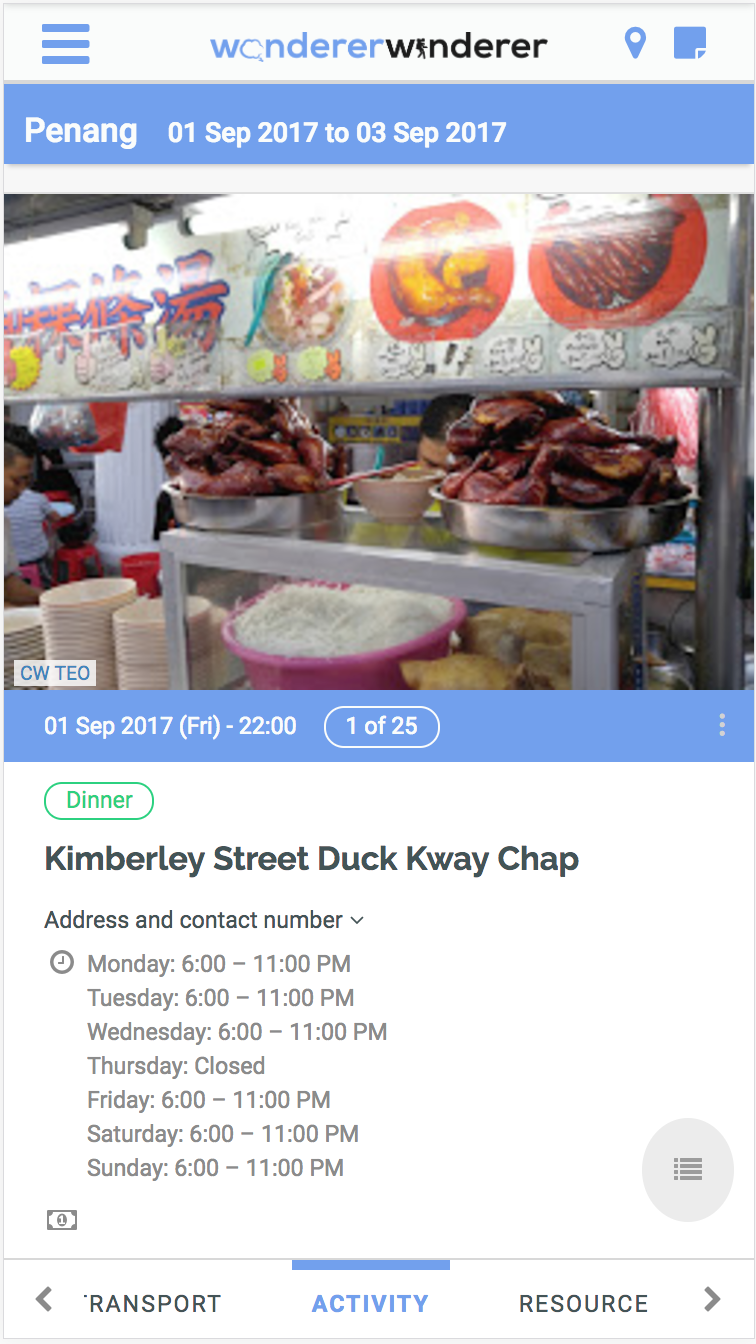
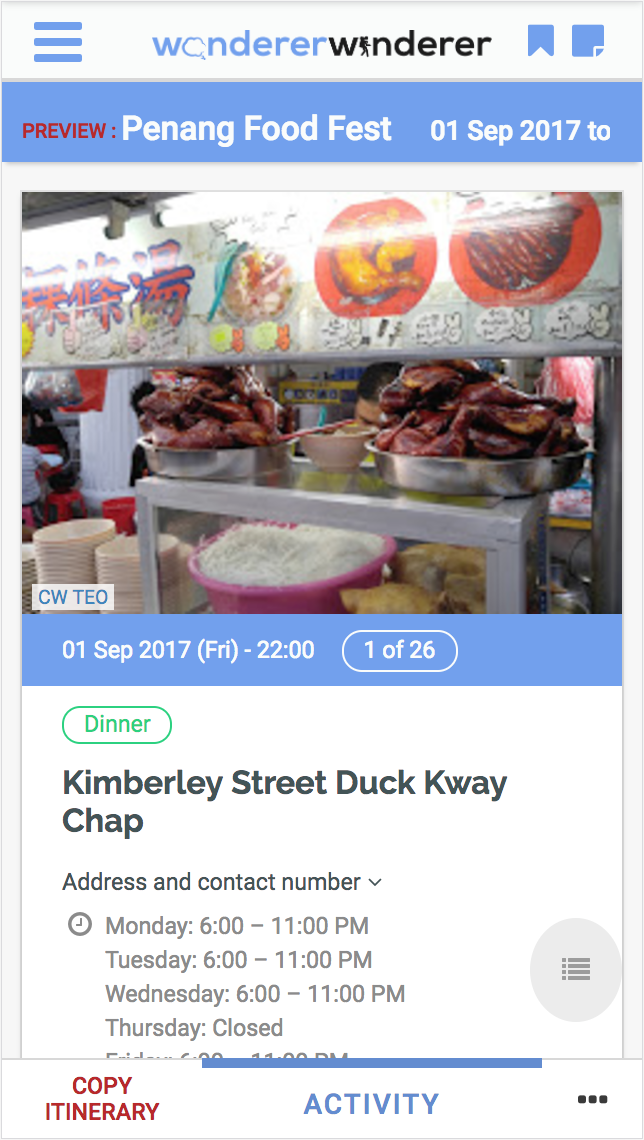
amend landing page to include description and with new layout

diff --git a/src/app/itinerary/itinerary-form/itinerary-form.component.ts b/src/app/itinerary/itinerary-form/itinerary-form.component.ts
@@ -1,4 +1,4 @@
-import { Component, OnInit, OnDestroy, Output, EventEmitter } from '@angular/core';
+import { Component, OnInit, OnDestroy, Output, EventEmitter, Renderer2 } from '@angular/core';
 import { FormGroup, FormControl, Validators, FormBuilder } from '@angular/forms';
 import { Router } from '@angular/router';
 import { Subscription } from 'rxjs/Rx';
@@ -31,14 +31,16 @@ export class ItineraryFormComponent implements OnInit, OnDestroy {
 
   constructor(
     private router: Router,
+    private renderer: Renderer2,
     private loadingService: LoadingService,
     private formBuilder: FormBuilder,
     private userService: UserService,
     private itineraryService: ItineraryService) {
       this.itineraryForm = this.formBuilder.group({
         'name': ['', Validators.required],
-        'date_from': ['', Validators.required],
-        'date_to': ['', Validators.required]
+        'date_from': '',
+        'date_to': '',
+        'num_days': '',
       });
     }
 
@@ -82,19 +84,25 @@ export class ItineraryFormComponent implements OnInit, OnDestroy {
     this.loadingService.setLoader(true, "Saving new itinerary...");
 
     let itinerary = this.itineraryForm.value;
-    let oneDay = 24*60*60*1000;
-
-    let startDate = new Date(itinerary['date_from']);
-    let endDate = new Date(itinerary['date_to']);
     let dateRange = [];
-
     dateRange.push('any day');
-    dateRange.push((new Date(itinerary['date_from'])).toISOString());
 
-    while(startDate < endDate){
-      let addDate = startDate.setDate(startDate.getDate() + 1);
-      let newDate = new Date(addDate);
-      dateRange.push(newDate.toISOString());
+    if(itinerary['date_from'] !== "") {
+      let startDate = new Date(itinerary['date_from']);
+      let endDate = new Date(itinerary['date_to']);
+
+      dateRange.push((new Date(itinerary['date_from'])).toISOString());
+
+      while(startDate < endDate){
+        let addDate = startDate.setDate(startDate.getDate() + 1);
+        let newDate = new Date(addDate);
+        dateRange.push(newDate.toISOString());
+      }
+    } else  {
+      for (let i = 0; i < itinerary['num_days']; i++) {
+        let day = i + 1;
+        dateRange.push("Day " + day);
+      }
     }
 
     itinerary["daily_note"] = [];
@@ -118,10 +126,19 @@ export class ItineraryFormComponent implements OnInit, OnDestroy {
         this.router.navigate(['/me/itinerary', data.itinerary._id]);
     });
 
-    this.hideItineraryForm.emit(false);
+    this.cancelForm();
   }
 
   cancelForm() {
     this.hideItineraryForm.emit(false);
+    this.preventScroll(false);
+  }
+
+  preventScroll(value)  {
+    if(value) {
+      this.renderer.addClass(document.body, 'prevent-scroll');
+    } else  {
+      this.renderer.removeClass(document.body, 'prevent-scroll');
+    }
   }
 }

diff --git a/src/app/landing-page/landing-page.component.html b/src/app/landing-page/landing-page.component.html
@@ -52,6 +52,7 @@
   <div id="slide-show">
 
     <div class="slideshow-header">
+      <h1 class="example-header eg-delay">DESCRIPTION</h1>
       <h1 class="example-header eg-delay">SUMMARY</h1>
       <h1 class="example-header eg-delay">MAP VIEW</h1>
       <h1 class="example-header eg-delay">ACCOMMODATION</h1>
@@ -61,6 +62,7 @@
     </div>
 
     <div class="slideshow-text">
+      <h2 class="text-example eg-delay">The story behind the trip</h2>
       <h2 class="text-example eg-delay">Chronological view of the itinerary</h2>
       <h2 class="text-example eg-delay">Know where you are going to</h2>
       <h2 class="text-example eg-delay">A dedicated view of all accommodation arrangements</h2>
@@ -71,6 +73,7 @@
 
     <div class="slideshow-desktop">
       <div class="slider-wrapper">
+        <img class="img-example eg-delay" src="assets/example-description.png" alt="">
         <img class="img-example eg-delay" src="assets/example-summary.png" alt="">
         <img class="img-example eg-delay" src="assets/example-map.png" alt="">
         <img class="img-example eg-delay" src="assets/example-accommodation.png" alt="">
@@ -82,6 +85,7 @@
 
     <div class="slideshow-mobile">
       <div class="slider-wrapper">
+        <img class="img-example img-example-mobile eg-delay" src="assets/example-description-mobile.png" alt="">
         <img class="img-example img-example-mobile eg-delay" src="assets/example-summary-mobile.png" alt="">
         <img class="img-example img-example-mobile eg-delay" src="assets/example-map-mobile.png" alt="">
         <img class="img-example img-example-mobile eg-delay" src="assets/example-accommodation-mobile.png" alt="">
@@ -124,7 +128,7 @@
 
       <div class="explanation">
         <h3>SAVE TIME & EFFORT</h3>
-        <h4>Adding details is now easier</h4>
+        <h4>Adding details is now easier and faster</h4>
         <h4>Even better when someone shares with you</h4>
       </div>
     </div>

diff --git a/src/app/itinerary/itinerary-form/itinerary-form.component.html b/src/app/itinerary/itinerary-form/itinerary-form.component.html
@@ -13,12 +13,21 @@
       <span class="form-validator"
         *ngIf="itineraryForm.get('name').touched && itineraryForm.get('name').invalid">Name of itinerary is required</span>
 
+
+      <h5 *ngIf="corporate" class="select-days">* Select either travel dates or number of days</h5>
+
       <label>Travel date from - Travel date to</label>
       <h5 class="label-note">Do include your date of departure and arrival for details to show up in the itinerary summary</h5>
+
       <div class="date-picker" daterangepicker [options]="options" (selected)="selectedDate($event)">
         <i class="fa fa-calendar" aria-hidden="true"></i>
         <h4><span>From:</span> {{ dateFrom | date: 'dd MMM yyyy'}}</h4>
         <h4><span>To:</span> {{ dateTo | date: 'dd MMM yyyy'}}</h4>
+      </div>
+
+      <div *ngIf="corporate" class="num-days">
+        <label>Number of days</label>
+        <input type="number" formControlName="num_days">
       </div>
 
       <label>Privacy</label>

diff --git a/src/app/landing-page/landing-page.component.scss b/src/app/landing-page/landing-page.component.scss
@@ -211,8 +211,8 @@
   width: 680px;
   opacity: 0;
   font-family: 'Fira Sans', sans-serif;
-  animation:fade 36s infinite;
-  -webkit-animation:fade 36s infinite;
+  animation:fade 42s infinite;
+  -webkit-animation:fade 42s infinite;
 
   @media only screen and (max-width: 750px) {
     margin: 0 10px;
@@ -254,8 +254,8 @@
   margin-top: 50px;
   height: 380px;
   opacity: 0;
-  animation:fade 36s infinite;
-  -webkit-animation:fade 36s infinite;
+  animation:fade 42s infinite;
+  -webkit-animation:fade 42s infinite;
   border-radius: 10px;
   border: 1px solid lightgray;
 
@@ -278,6 +278,7 @@
 .eg-delay:nth-of-type(4) { animation-delay: 18s }
 .eg-delay:nth-of-type(5) { animation-delay: 24s }
 .eg-delay:nth-of-type(6) { animation-delay: 30s }
+.eg-delay:nth-of-type(7) { animation-delay: 36s }
 
 @keyframes fade
 {

diff --git a/src/app/itinerary/itinerary-description/itinerary-description.component.scss b/src/app/itinerary/itinerary-description/itinerary-description.component.scss
@@ -4,8 +4,6 @@
   margin-bottom: 20px;
   margin-left: calc((100vw - 800px) / 2 );
   padding-bottom: 20px;
-  background-color: white;
-  box-shadow: 0 0 0 1px rgba(0, 0, 0, 0.1), 0 2px 3px rgba(0, 0, 0, 0.2);
 
   @media only screen and (max-width: 610px) {
     width: 100%;
@@ -171,7 +169,7 @@
 .fa-pencil  {
   margin: -25px -25px 0 0;
   float: right;
-  color: #808080;
+  color: #A6A6A6;
 
   &:hover {
     cursor: pointer;

diff --git a/src/app/itinerary/itinerary-form/itinerary-form.component.scss b/src/app/itinerary/itinerary-form/itinerary-form.component.scss
@@ -1,5 +1,21 @@
+.select-days  {
+  margin: 40px 0 10px 0;
+  font-weight: 500;
+  color: firebrick;
+}
+
 .date-picker  {
   margin-bottom: 20px;
+}
+
+.num-days input {
+  margin-bottom: 40px;
+  width: 90px;
+  text-align: center;
+}
+
+.label-note  {
+  padding-bottom: 3px;
 }
 
 /* privacy */

diff --git a/src/app/itinerary/itinerary.component.html b/src/app/itinerary/itinerary.component.html
@@ -84,6 +84,10 @@
     <h5>COPY ITINERARY</h5>
   </div>
 
+  <div class="copy-button" *ngIf="preview && creator">
+    <h5>COPY ITINERARY</h5>
+  </div>
+
   <div class="current-route" (click)="toggleNav()">
     <h4>{{ currentRoute | uppercase }}</h4>
   </div>

diff --git a/src/app/itinerary/itinerary.component.ts b/src/app/itinerary/itinerary.component.ts
@@ -522,6 +522,7 @@ export class ItineraryComponent implements OnInit, OnDestroy {
   }
 
   routeToPreview()  {
+    this.loadingService.setLoader(true, "Routing to preview...");
     this.router.navigateByUrl('/preview/itinerary/' + this.itinerary['_id'])
   }
 

diff --git a/src/app/navigation/main-navigation/main-navigation.component.ts b/src/app/navigation/main-navigation/main-navigation.component.ts
@@ -207,6 +207,7 @@ export class MainNavigationComponent implements OnInit, OnDestroy {
   // top navigation itinerary
   newItin() {
     this.showItineraryForm = true;
+    this.preventScroll(true);
   }
 
   routeToItinerary(id) {

diff --git a/src/app/itinerary/itinerary-resources/resource/resource.component.scss b/src/app/itinerary/itinerary-resources/resource/resource.component.scss
@@ -1,7 +1,7 @@
 .display-header-background  {
   @media only screen and (max-width: 400px) {
     display: block;
-    width: 100vw;
+    width: calc(100vw - 20px);
     min-width: 300px;
   }
 
